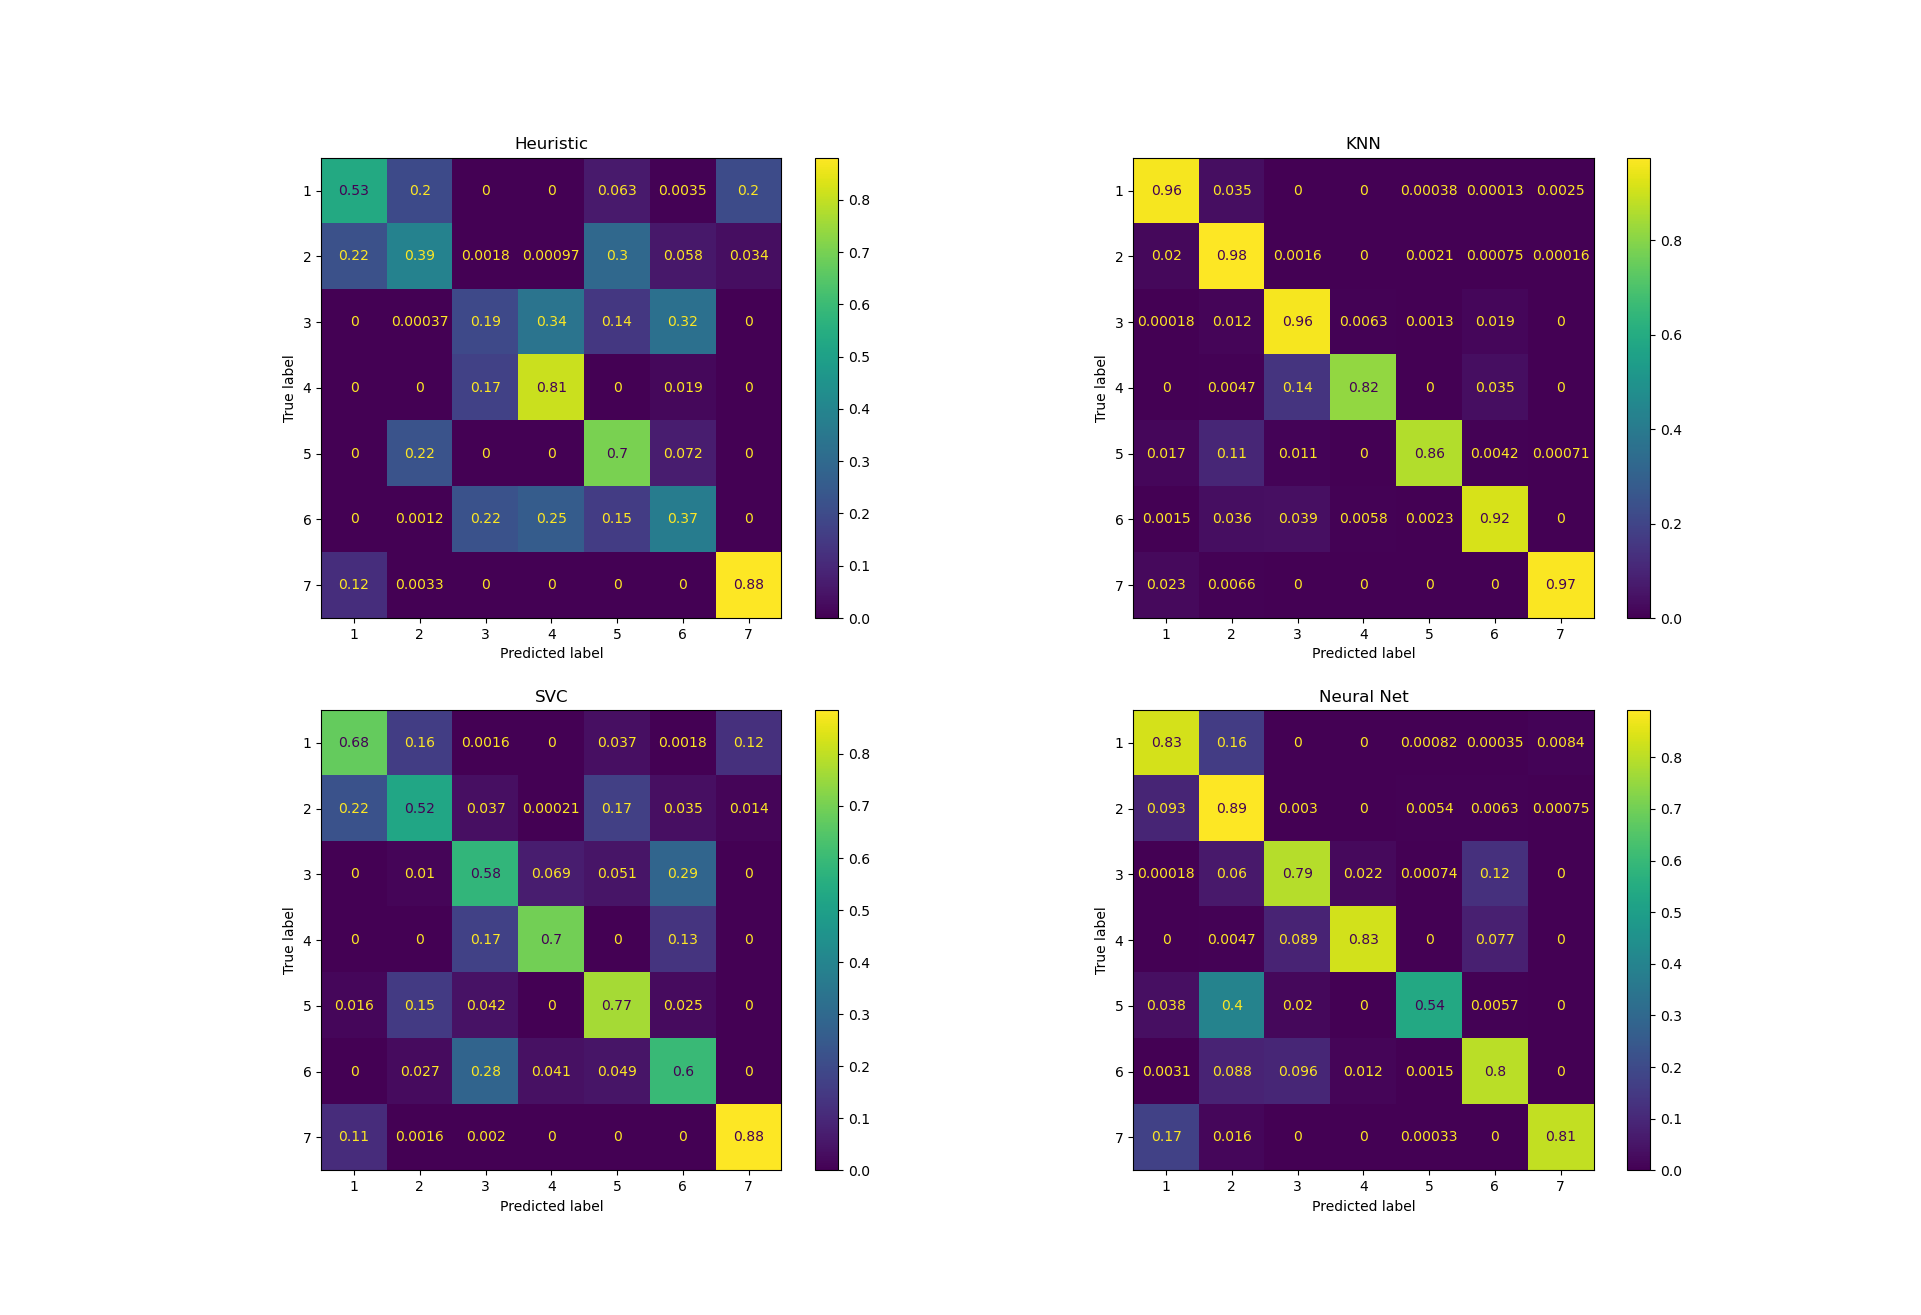
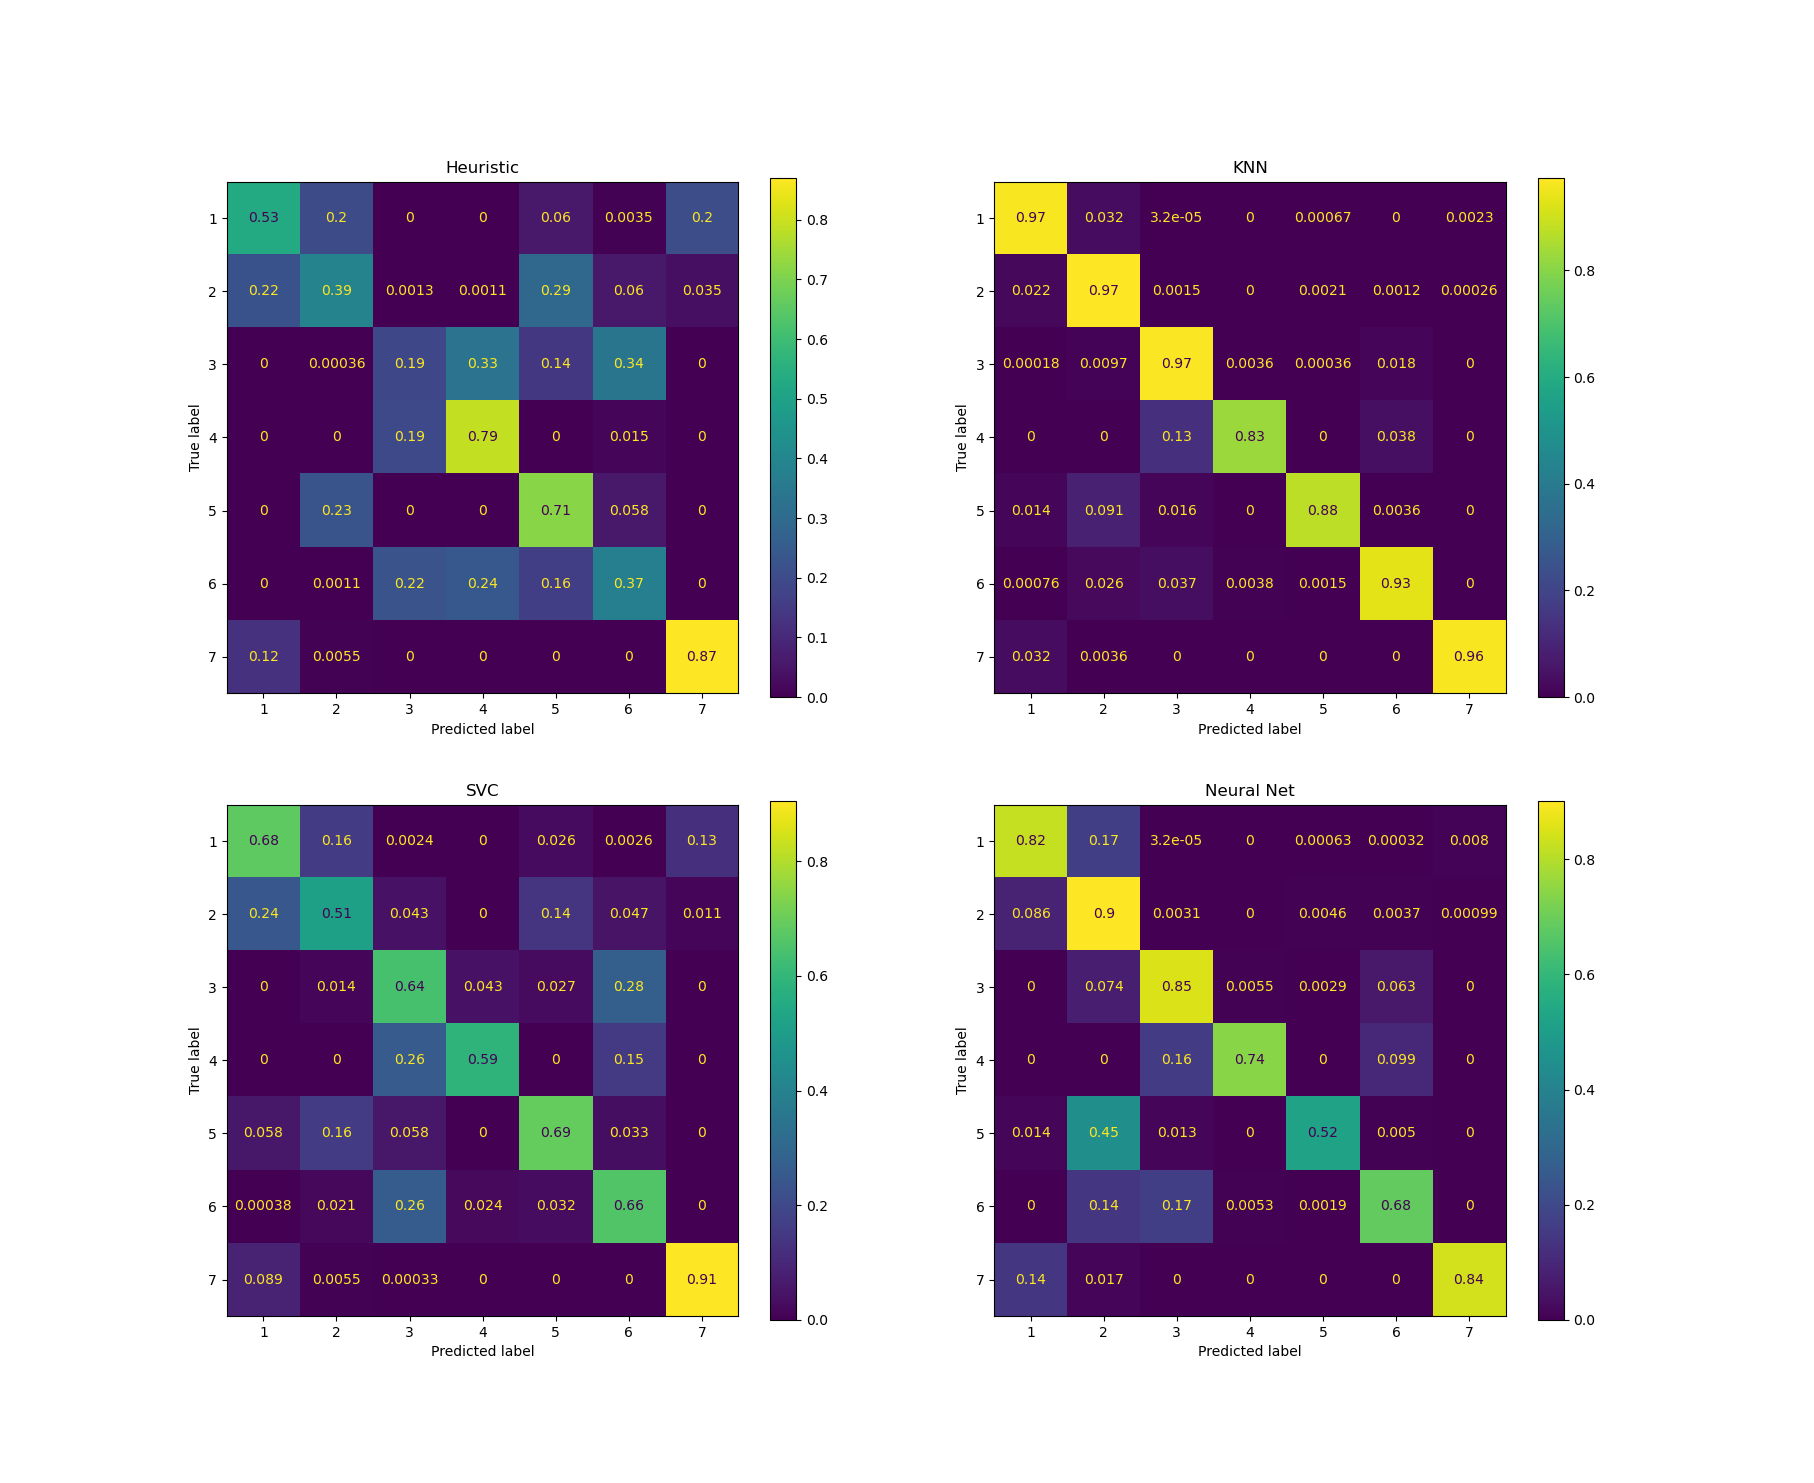
Slight changes

diff --git a/train_neural_net.py b/train_neural_net.py
@@ -1,6 +1,6 @@
 import keras_tuner as kt
 from tensorflow import keras
-from load_data import split_data, load_data, split_to_features_and_labels, split_to_train_test_val
+from load_data import load_data, split_to_features_and_labels, split_to_train_test_val, get_class_weights
 import numpy as np
 
 from matplotlib import pyplot as plt
@@ -12,7 +12,7 @@ class NeuralNetModel:
         self.model = model
     
     def predict(self, data):
-        return np.argmax(self.model.predict(data), axis=1) + 1 # +1 because cover types are 1-indexed
+        return np.argmax(self.model.predict(data), axis=1) + 1 # +1 because cover types are indexed from 1
     
     def save(self, path):
         self.model.save(path)
@@ -41,14 +41,14 @@ def build_model(hp):
 
     return model
 
-def find_best_model(train_data, train_labels, validation_data, validation_labels):
+def find_best_model(train_data, train_labels, validation_data, validation_labels, overwrite=False):
     tuner = kt.RandomSearch(
         build_model,
         objective="val_loss",
         max_trials=10,
         executions_per_trial=3,
         directory="hyperparameter_tuning",
-        overwrite=False, # Set to True if you haven't run this before
+        overwrite=overwrite, 
         project_name="covtype"
     )
 
@@ -56,7 +56,13 @@ def find_best_model(train_data, train_labels, validation_data, validation_labels
         train_data,
         train_labels,
         epochs=5,
-        validation_data=(validation_data, validation_labels)
+        validation_data=(validation_data, validation_labels),
+        callbacks=[
+            keras.callbacks.EarlyStopping(
+                monitor="val_loss",
+                patience=3,
+                restore_best_weights=True)
+            ]
     )
 
     tuner.results_summary()
@@ -65,28 +71,25 @@ def find_best_model(train_data, train_labels, validation_data, validation_labels
 
     return model
 
-def train_model(model, train_data, train_labels, validation_data, validation_labels, epochs=10):
-    return model.fit(
-        train_data,
+def get_fully_trained_model(train_features, train_labels, validation_features, validation_labels, epochs=10, get_history=False, overwrite=False):
+    train_labels = np.subtract(train_labels, 1)
+    validation_labels = np.subtract(validation_labels, 1)
+
+    model = find_best_model(train_features, train_labels, validation_features, validation_labels, overwrite=overwrite)
+    
+    train_history = model.fit(
+        train_features,
         train_labels,
         epochs=epochs,
-        validation_data=(validation_data, validation_labels), 
+        validation_data=(validation_features, validation_labels), 
         callbacks=[
             keras.callbacks.EarlyStopping(
                 monitor="val_loss",
-                patience=2,
+                patience=3,
                 restore_best_weights=True
             ),
         ]
     )
-
-
-def get_fully_trained_model(train_features, train_labels, validation_features, validation_labels, epochs=10, get_history=False):
-    train_labels = np.subtract(train_labels, 1)
-    validation_labels = np.subtract(validation_labels, 1)
-
-    model = find_best_model(train_features, train_labels, validation_features, validation_labels)
-    train_history = train_model(model, train_features, train_labels, validation_features, validation_labels, epochs=epochs)
 
     model = NeuralNetModel(model)
 
@@ -107,9 +110,10 @@ def main():
 
     train_features, train_labels = split_to_features_and_labels(train_data)
     validation_features, validation_labels = split_to_features_and_labels(val_data)
-    test_features, test_labels = split_to_features_and_labels(test_data)
     
     model, train_history = get_fully_trained_model(train_features, train_labels, validation_features, validation_labels, get_history=True)
+
+    model.save("model/neural_net_model")
 
     # We want 2 plots, one for the loss and one for the accuracy
     fig, axs = plt.subplots(1, 2)

diff --git a/evaluate_models.py b/evaluate_models.py
@@ -34,7 +34,7 @@ def main():
     heuristic_model = HeuristicClassifier()
     knn_model = train_knn_model(train_features, train_labels)
     svc_model = train_svc(train_features, train_labels)
-    neural_net_model = get_fully_trained_model(train_features, train_labels, validation_features, validation_labels, epochs=10)
+    neural_net_model = get_fully_trained_model(train_features, train_labels, validation_features, validation_labels, epochs=8, overwrite=False)
 
     models = [heuristic_model, knn_model, svc_model, neural_net_model]
     model_names = ["Heuristic", "KNN", "SVC", "Neural Net"]

diff --git a/README.md b/README.md
@@ -61,17 +61,29 @@ Main function of the file `train_neural_net.py` tries to find optimal hyperparam
 
 #### Hyperparameter search
 
-I've used the `keras-tuner` library and `Hyperband` algorithm to perform the following hyperparameter search:
+I've tried a few different approaches to hyperparameter search.
+
+First, I've used the `keras-tuner` library and `Hyperband` algorithm to perform the following hyperparameter search:
 
 * number of hidden layers in the network (1 - 3)
-* number of neurons in each hidden layer (64 - 512)
+* number of perceptrons in each hidden layer (64 - 512)
 * whether to use a dropout layer (True, False)
 * dropout rate (0.1 - 0.5)
 * learning rate (0.0001 - 0.01)
 
-The loss used is sparse categorical crossentropy, the optimizer is Adam and the activation function on the last layer is softmax. Activation functions on other layers are ReLU functions. Due to limited resources, I didn't include those in the hyperparameter search.
+The loss used was sparse categorical crossentropy, the optimizer was Adam and the activation function on the last layer was softmax. Activation functions on other layers were ReLU functions. Due to limited resources, I didn't include those in the hyperparameter search.
 
-Because of the unbalanced nature of the dataset, I've used the `get_class_weights` function from `load_data.py` to calculate the class weights for the model to train with.
+Furthermore, because of the unbalanced nature of the dataset, I had thought that the model might benefit from setting class weights; because of that I had used the `get_class_weights` function from `load_data.py` to calculate the class weights for the model to train with.
+
+That approach, however, failed after 3 hours of hyperparameter tuning.
+
+![Model training curves after use of a Hyperband](plots/tuner_fail.png)
+
+Because of that, I've decided to remove class balancing from the model to see what happens. Apparently, it was able to perform much better than before. I've also decided to use random search instead of hyperband, as it was much faster. Models tested by the random search can be found in the `hyperparameter_tuning` directory.
+
+![Model training curves after removing class balancing](plots/curves.png)
+
+While worse than the KNN, I deemed its results satisfactory given resources available to me.
 
 #### NeuralNetModel class
 
@@ -87,6 +99,8 @@ The `evaluate_models.py` loads the data, splits it into train, test and validati
 ![](plots/test_accuracies.png)
 * a plot of the confusion matrix for each model on the test set
 ![](plots/confusion_matrices.png)
+
+It's worth noting that because I've determined the best hyperparameters for the neural network model earlier, there could have been some overlap between the test and validation set used earlier on (to determine whether the model is performing correctly during hyperparameter search). Obviously, no test data was shown directly to the model, but it could have been indirectly used to determine the best hyperparameters. To prevent this behaviour, you can change the positional `overwrite` argument in the `get_fully_trained_model` function call to `True`, which will force the hyperparameter search to be performed again.
 
 ### 6. API
 
